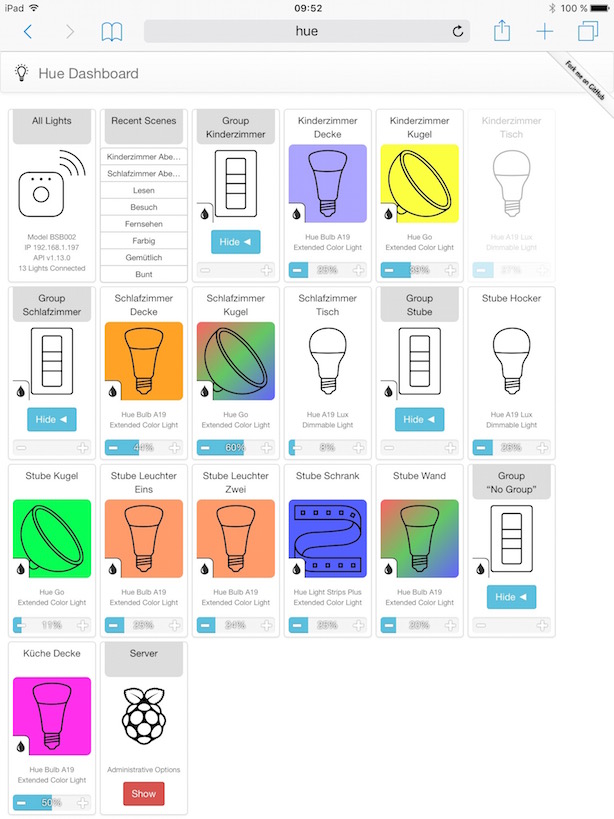
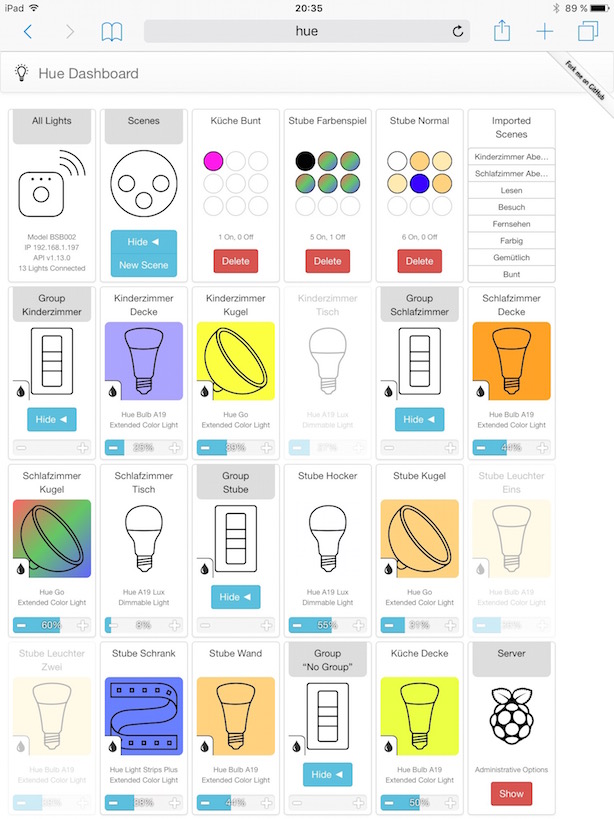
Documentation, screenshot & TODO update

diff --git a/README.md b/README.md
@@ -21,7 +21,8 @@ And the same on the iPad:
 - Works with any modern browser
 - Adjusting individual lights or the automatically created groups is comfortable both with a mouse and touch based input
 - Light groups can be shown / hidden, preferences are stored on a per-browser basis
-- Existing scenes created in other Hue applications are fetched from the bridge
+- Scene creation interface allows easy building of scenes from the current light state
+- Existing scenes created in other Hue applications can be activated as well
 - Supports putting lights in a 'color loop' mode where they cycle between all available colors
 - Clicking a light / group caption makes the lamps blink (can be used as a crude form of communication!)
 - All official Philips Hue lights are recognized and displayed with the appropriate graphics
